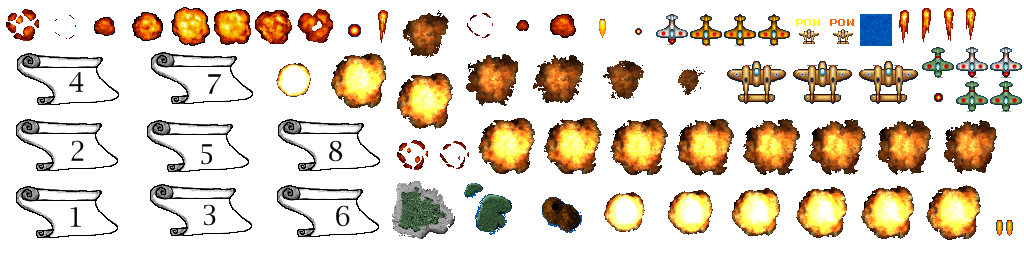
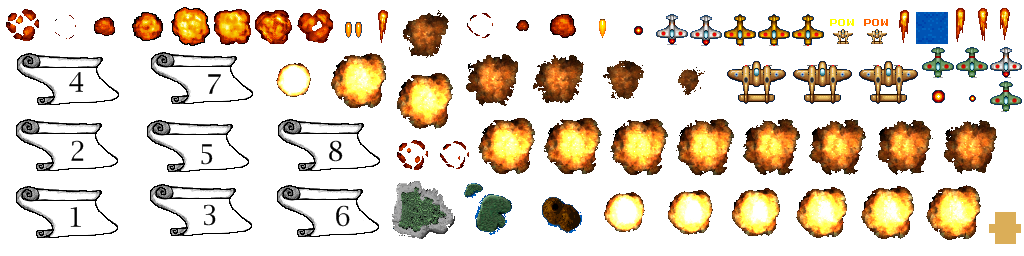
Added score/ enemies killed counter gui

diff --git a/WarBirds/core/src/wit/cgd/warbirds/game/WorldRenderer.java b/WarBirds/core/src/wit/cgd/warbirds/game/WorldRenderer.java
@@ -3,6 +3,8 @@ package wit.cgd.warbirds.game;
 import com.badlogic.gdx.graphics.OrthographicCamera;
 import com.badlogic.gdx.graphics.g2d.SpriteBatch;
 import com.badlogic.gdx.utils.Disposable;
+import com.badlogic.gdx.graphics.g2d.BitmapFont;
+
 import wit.cgd.warbirds.game.util.Constants;
 
 public class WorldRenderer implements Disposable {
@@ -45,6 +47,11 @@ public class WorldRenderer implements Disposable {
 		worldController.level.levelDecoration.scale.y =  scale;
 	}
 	
+	private void renderGuiScore(SpriteBatch batch) {
+	    batch.draw(Assets.instance.enemy[0].region, -15, -15, 50, 50, 100, 100, 0.80f, -0.80f, 0);
+	    Assets.instance.fonts.defaultBig.draw(batch, "" + worldController.level.killedEnemies + "/" + worldController.level.totalNumberOfEnemies, -15+100, -15+37);
+	}
+	
 	public void render() {
 		
 		// Game rendering
@@ -58,7 +65,7 @@ public class WorldRenderer implements Disposable {
 		
 		batch.setProjectionMatrix(cameraGUI.combined);
 		batch.begin();
-		
+		renderGuiScore(batch);
 		batch.end();
 	}
 

diff --git a/WarBirds/core/src/wit/cgd/warbirds/game/objects/Level.java b/WarBirds/core/src/wit/cgd/warbirds/game/objects/Level.java
@@ -34,8 +34,8 @@ public class Level extends AbstractGameObject {
     private float enemyTimer;
     public Array<AbstractEnemy> enemies;
     private String currentLevel;
-    private int totalNumberOfEnemies;
-    private int killedEnemies;
+    public int totalNumberOfEnemies;
+    public int killedEnemies;
     private boolean bossSpawned;
     private AbstractEnemy boss;
     public Array<AbstractPowerUp> powerUps;

diff --git a/WarBirds/core/src/wit/cgd/warbirds/game/Assets.java b/WarBirds/core/src/wit/cgd/warbirds/game/Assets.java
@@ -88,10 +88,12 @@ public class Assets implements Disposable, AssetErrorListener {
 
     @Override
     public void dispose() {
-
         assetManager.dispose();
+        fonts.defaultSmall.dispose();
+        fonts.defaultNormal.dispose();
+        fonts.defaultBig.dispose();
     }
-
+    
     @Override
     public void error(AssetDescriptor asset, Throwable throwable) {
 

diff --git a/WarBirds/core/src/wit/cgd/warbirds/game/WorldController.java b/WarBirds/core/src/wit/cgd/warbirds/game/WorldController.java
@@ -90,6 +90,8 @@ public class WorldController extends InputAdapter {
                 enemy.timeToDie = Constants.ENEMY_DIE_DELAY;
             }
         }
+        
+        // power ups
     }
 
     public boolean isInScreen(AbstractGameObject gameObject) {
